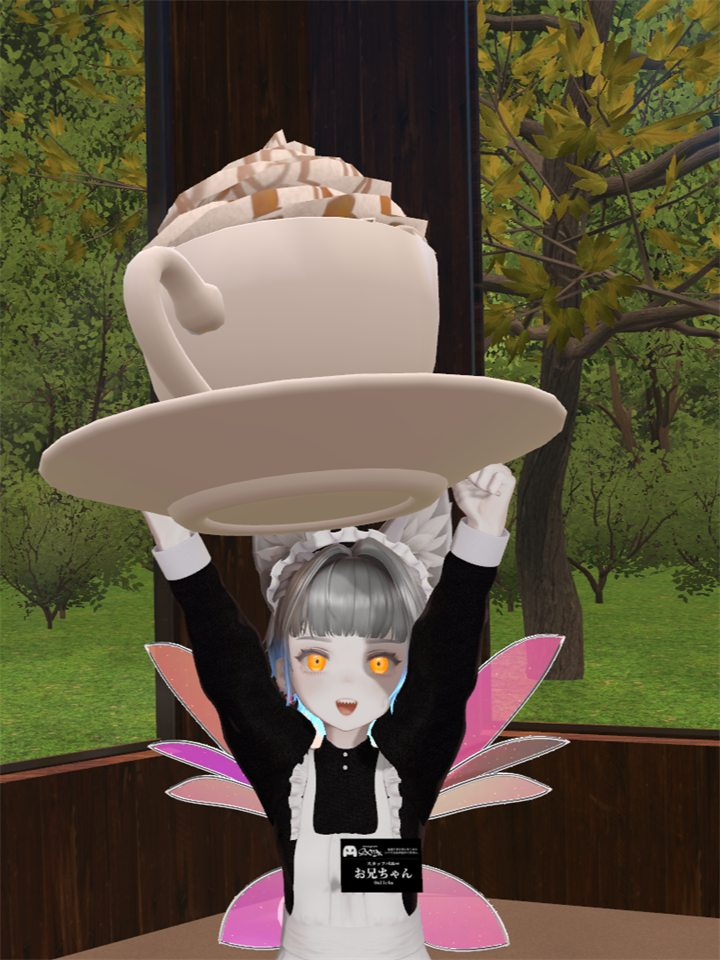
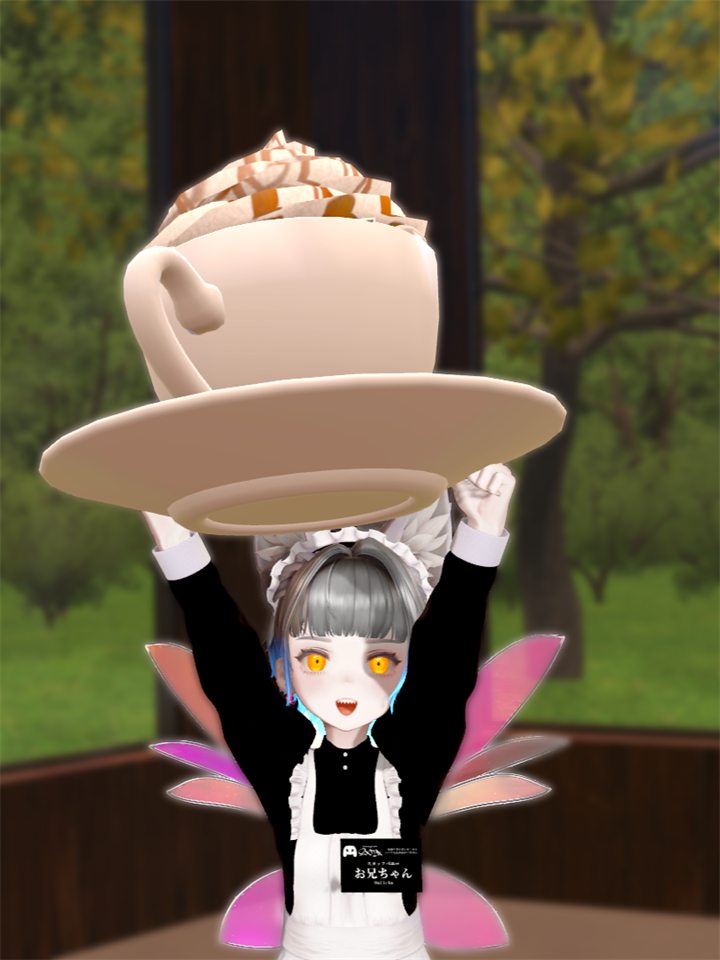
New photos for Hayashisun and Muren (cards and profiles); replace Oniichan photo

diff --git a/index.html b/index.html
@@ -21,7 +21,7 @@
   } catch (e) { /* 保存できない環境では、通常どおり表示 */ }
 })();
 </script>
-<link rel="stylesheet" href="css/site.css?v=63">
+<link rel="stylesheet" href="css/site.css?v=64">
 </head>
 <body>
 
@@ -521,7 +521,7 @@
         </article>
 
         <article class="cast-card">
-          <div class="cast-photo"><img src="キャスト写真/web/はやしすん.png" alt="はやしすん" loading="lazy"></div>
+          <div class="cast-photo is-shot"><img src="キャスト写真/web/はやしすん-photo.jpg" alt="はやしすん" loading="lazy"></div>
           <p class="cast-role">Cast Bunny</p>
           <h3 class="cast-name">はやしすん</h3>
         </article>
@@ -551,7 +551,7 @@
         </article>
 
         <article class="cast-card">
-          <div class="cast-photo"><img src="キャスト写真/web/ムレン.png" alt="ムレン" loading="lazy"></div>
+          <div class="cast-photo is-shot"><img src="キャスト写真/web/ムレン-photo.jpg" alt="ムレン" loading="lazy"></div>
           <p class="cast-role">Cast Bunny</p>
           <h3 class="cast-name">ムレン</h3>
         </article>
@@ -574,7 +574,7 @@
       <div class="cast-panel" id="castPanelStaff" role="tabpanel" aria-labelledby="castTabStaff" hidden>
         <div class="cast-grid cast-grid-staff">
           <article class="cast-card">
-            <div class="cast-photo is-shot"><img src="キャスト写真/web/お兄ちゃん-photo.jpg" alt="お兄ちゃん" loading="lazy"></div>
+            <div class="cast-photo is-shot"><img src="キャスト写真/web/お兄ちゃん-photo.jpg?v=2" alt="お兄ちゃん" loading="lazy"></div>
             <p class="cast-role">Staff</p>
             <h3 class="cast-name">お兄ちゃん</h3>
           </article>
@@ -675,7 +675,7 @@
 </div>
 
 <script src="js/config.js?v=8"></script>
-<script src="js/profiles.js?v=12"></script>
+<script src="js/profiles.js?v=13"></script>
 <script src="js/script.js?v=18"></script>
 </body>
 </html>

diff --git a/js/profiles.js b/js/profiles.js
@@ -49,7 +49,7 @@ window.EXTA_PROFILES = {
     avatar: '士堂',
     heading: 'ひとこと',
     message: ['EXTA随一の｜脇、｜お見せ｜いたします…'],
-    photo: 'スタッフメッセージ/web/はやしすん.jpg'
+    photo: 'キャスト写真/web/はやしすん-photo.jpg'
   },
   'はるるん': {
     name: 'はるるん',
@@ -86,7 +86,7 @@ window.EXTA_PROFILES = {
       '楽しい｜時間を｜提供できるように｜頑張ります！',
       '皆様の｜ご来店を｜お待ちしております！'
     ],
-    photo: 'スタッフメッセージ/web/ムレン.jpg'
+    photo: 'キャスト写真/web/ムレン-photo.jpg'
   },
   'あかきのこ': {
     name: 'あかきのこ',
@@ -114,7 +114,7 @@ window.EXTA_PROFILES = {
     avatar: 'マリシア',
     heading: 'ひとこと',
     message: ['どうか｜あなたの｜推しが｜見つかりますよ', 'うに。'],
-    photo: 'キャスト写真/web/お兄ちゃん-photo.jpg',
+    photo: 'キャスト写真/web/お兄ちゃん-photo.jpg?v=2',
     photoPosition: '50% 80%'
   },
   'のきなみ': {
